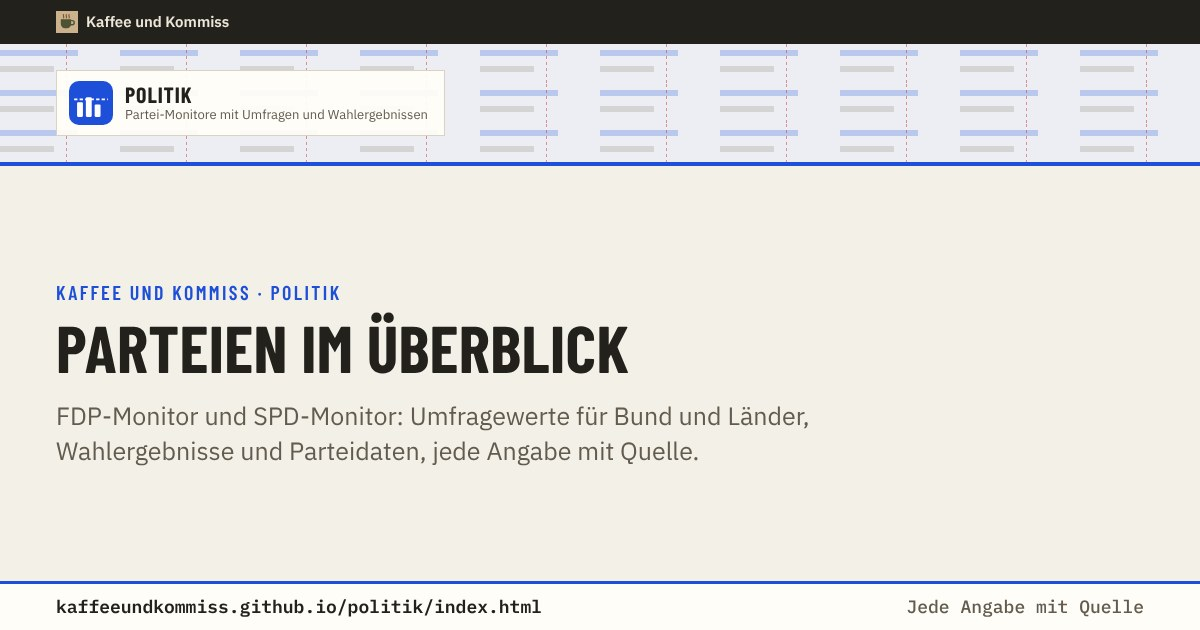
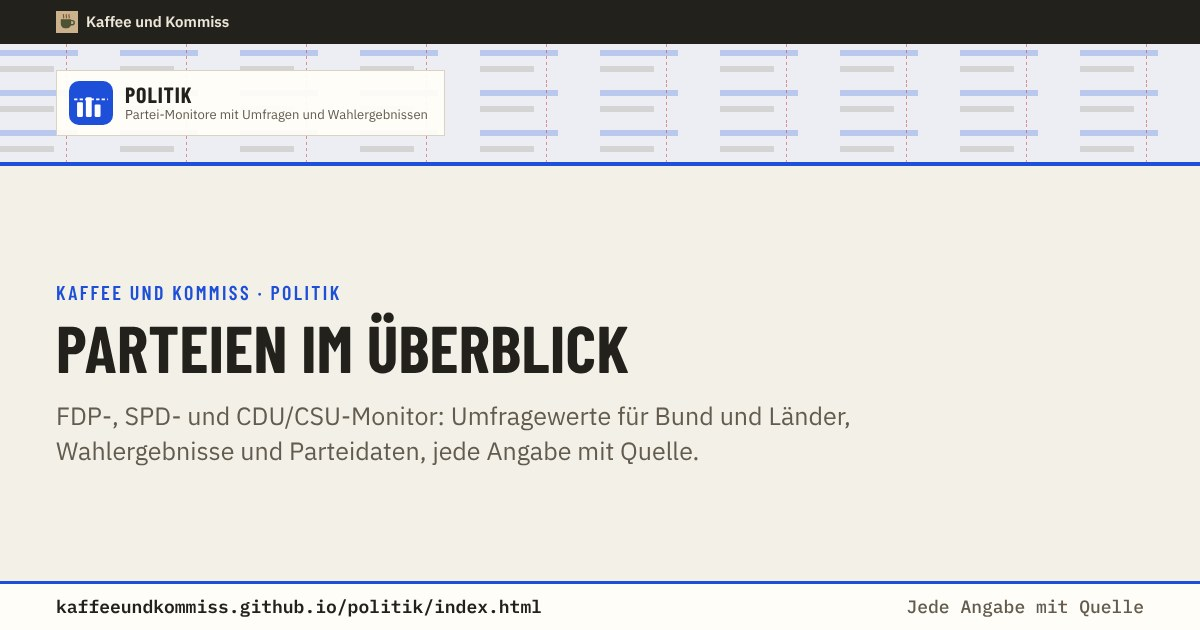
Politik-Übersicht: CDU/CSU-Monitor ergänzen
Claude-Session: https://claude.ai/code/session_01AuP7hKFayk2mgrCDKmdiB4

Changed region(s): [[0.0925, 0.6333, 0.7092, 0.6937]]

diff --git a/politik/index.html b/politik/index.html
@@ -4,21 +4,21 @@
 <meta charset="utf-8">
 <meta name="viewport" content="width=device-width, initial-scale=1">
 <title>Politik · Kaffee und Kommiss</title>
-<meta name="description" content="Partei-Monitore für FDP und SPD: Umfragewerte für Bund und Länder, Wahlergebnisse und Parteidaten, jede Angabe mit Quelle.">
+<meta name="description" content="Partei-Monitore für FDP, SPD und CDU/CSU: Umfragewerte für Bund und Länder, Wahlergebnisse und Parteidaten, jede Angabe mit Quelle.">
 <link rel="canonical" href="https://kaffeeundkommiss.github.io/politik/">
 <meta property="og:type" content="website">
 <meta property="og:locale" content="de_DE">
 <meta property="og:site_name" content="Kaffee und Kommiss">
 <meta property="og:title" content="Politik · Kaffee und Kommiss">
-<meta property="og:description" content="Partei-Monitore für FDP und SPD: Umfragewerte für Bund und Länder, Wahlergebnisse und Parteidaten, jede Angabe mit Quelle.">
+<meta property="og:description" content="Partei-Monitore für FDP, SPD und CDU/CSU: Umfragewerte für Bund und Länder, Wahlergebnisse und Parteidaten, jede Angabe mit Quelle.">
 <meta property="og:url" content="https://kaffeeundkommiss.github.io/politik/">
 <!-- Vorschau für Linkvorschauen, erzeugt mit werkzeuge/vorschau.js -->
-<meta property="og:image" content="https://kaffeeundkommiss.github.io/vorschau/politik.jpg?v=c4bcabc5">
+<meta property="og:image" content="https://kaffeeundkommiss.github.io/vorschau/politik.jpg?v=a96d6cee">
 <meta property="og:image:width" content="1200">
 <meta property="og:image:height" content="630">
 <meta property="og:image:alt" content="Parteien im Überblick: Kaffee und Kommiss">
 <meta name="twitter:card" content="summary_large_image">
-<meta name="twitter:image" content="https://kaffeeundkommiss.github.io/vorschau/politik.jpg?v=c4bcabc5">
+<meta name="twitter:image" content="https://kaffeeundkommiss.github.io/vorschau/politik.jpg?v=a96d6cee">
 <link rel="icon" href="../icons/politik.svg" type="image/svg+xml">
 <link rel="icon" href="../favicon-32.png" type="image/png" sizes="32x32">
 <link rel="apple-touch-icon" sizes="180x180" href="../apple-touch-icon.png?v=1">
@@ -66,6 +66,13 @@
       <span class="rubrik">Politik</span>
       <span class="titel">SPD-Monitor</span>
       <span class="text">Umfragewerte der SPD für Bundestag und Landtagswahlen im Vergleich zur jeweils letzten Wahl, dazu Wahlergebnisse seit 1998 und der Parteivorsitz seit 1946.</span>
+      <span class="hinweis">Wird wöchentlich aktualisiert</span>
+    </a>
+    <a class="projekt kk-b-poli" href="https://kaffeeundkommiss.github.io/cducsu-monitor/">
+      <span class="band"><img src="../icons/cducsu.svg" alt="" width="40" height="40"></span>
+      <span class="rubrik">Politik</span>
+      <span class="titel">CDU/CSU-Monitor</span>
+      <span class="text">Umfragewerte der Union für Bundestag und Landtagswahlen im Vergleich zur jeweils letzten Wahl, dazu Wahlergebnisse seit 1998, CDU- und CSU-Vorsitz.</span>
       <span class="hinweis">Wird wöchentlich aktualisiert</span>
     </a>
   </section>

diff --git a/index.html b/index.html
@@ -13,12 +13,12 @@
 <meta property="og:description" content="Selbst erstellte Übersichten zu Politik, Geschichte und Sicherheitspolitik, jede Angabe mit Quelle.">
 <meta property="og:url" content="https://kaffeeundkommiss.github.io/">
 <!-- Vorschau für Linkvorschauen, erzeugt mit werkzeuge/vorschau.js -->
-<meta property="og:image" content="https://kaffeeundkommiss.github.io/vorschau/start.jpg?v=5d3710d7">
+<meta property="og:image" content="https://kaffeeundkommiss.github.io/vorschau/start.jpg?v=59879ad4">
 <meta property="og:image:width" content="1200">
 <meta property="og:image:height" content="630">
 <meta property="og:image:alt" content="Kaffee und Kommiss">
 <meta name="twitter:card" content="summary_large_image">
-<meta name="twitter:image" content="https://kaffeeundkommiss.github.io/vorschau/start.jpg?v=5d3710d7">
+<meta name="twitter:image" content="https://kaffeeundkommiss.github.io/vorschau/start.jpg?v=59879ad4">
 <link rel="icon" href="favicon.svg" type="image/svg+xml">
 <link rel="icon" href="favicon-32.png" type="image/png" sizes="32x32">
 <link rel="apple-touch-icon" sizes="180x180" href="apple-touch-icon.png?v=1">
@@ -59,8 +59,8 @@
     <a class="projekt kk-b-poli" href="https://kaffeeundkommiss.github.io/politik/">
       <span class="band"><img src="icons/politik.svg" alt="" width="40" height="40"></span>
       <span class="rubrik">Politik</span>
-      <span class="titel">FDP- und SPD-Monitor</span>
-      <span class="text">Aktuelle Umfragewerte von FDP und SPD für Bundestag und Landtagswahlen, dazu Wahlergebnisse seit 1998 und Daten zur Partei.</span>
+      <span class="titel">Partei-Monitore</span>
+      <span class="text">Aktuelle Umfragewerte von FDP, SPD und CDU/CSU für Bundestag und Landtagswahlen, dazu Wahlergebnisse seit 1998 und Daten zur Partei.</span>
       <span class="hinweis">Wird wöchentlich aktualisiert</span>
     </a>
     <a class="projekt kk-b-gesch" href="https://kaffeeundkommiss.github.io/erster-Weltkrieg/">

diff --git a/README.md b/README.md
@@ -4,7 +4,7 @@ Startseite der Organisation: https://kaffeeundkommiss.github.io/
 
 Verweist auf die drei Projekte:
 
-- Politik: Übersicht https://kaffeeundkommiss.github.io/politik/ (Ordner `politik/`) mit FDP-Monitor (https://kaffeeundkommiss.github.io/fdp-monitor/) und SPD-Monitor (https://kaffeeundkommiss.github.io/spd-monitor/)
+- Politik: Übersicht https://kaffeeundkommiss.github.io/politik/ (Ordner `politik/`) mit FDP-Monitor (https://kaffeeundkommiss.github.io/fdp-monitor/) , SPD-Monitor (https://kaffeeundkommiss.github.io/spd-monitor/) und CDU/CSU-Monitor (https://kaffeeundkommiss.github.io/cducsu-monitor/)
 - Geschichte: Jagdgeschwader Richthofen, https://kaffeeundkommiss.github.io/erster-Weltkrieg/
 - Sicherheitspolitik: Bundeswehr in Afghanistan, https://kaffeeundkommiss.github.io/bundeswehr-Afghanistan-/
 
